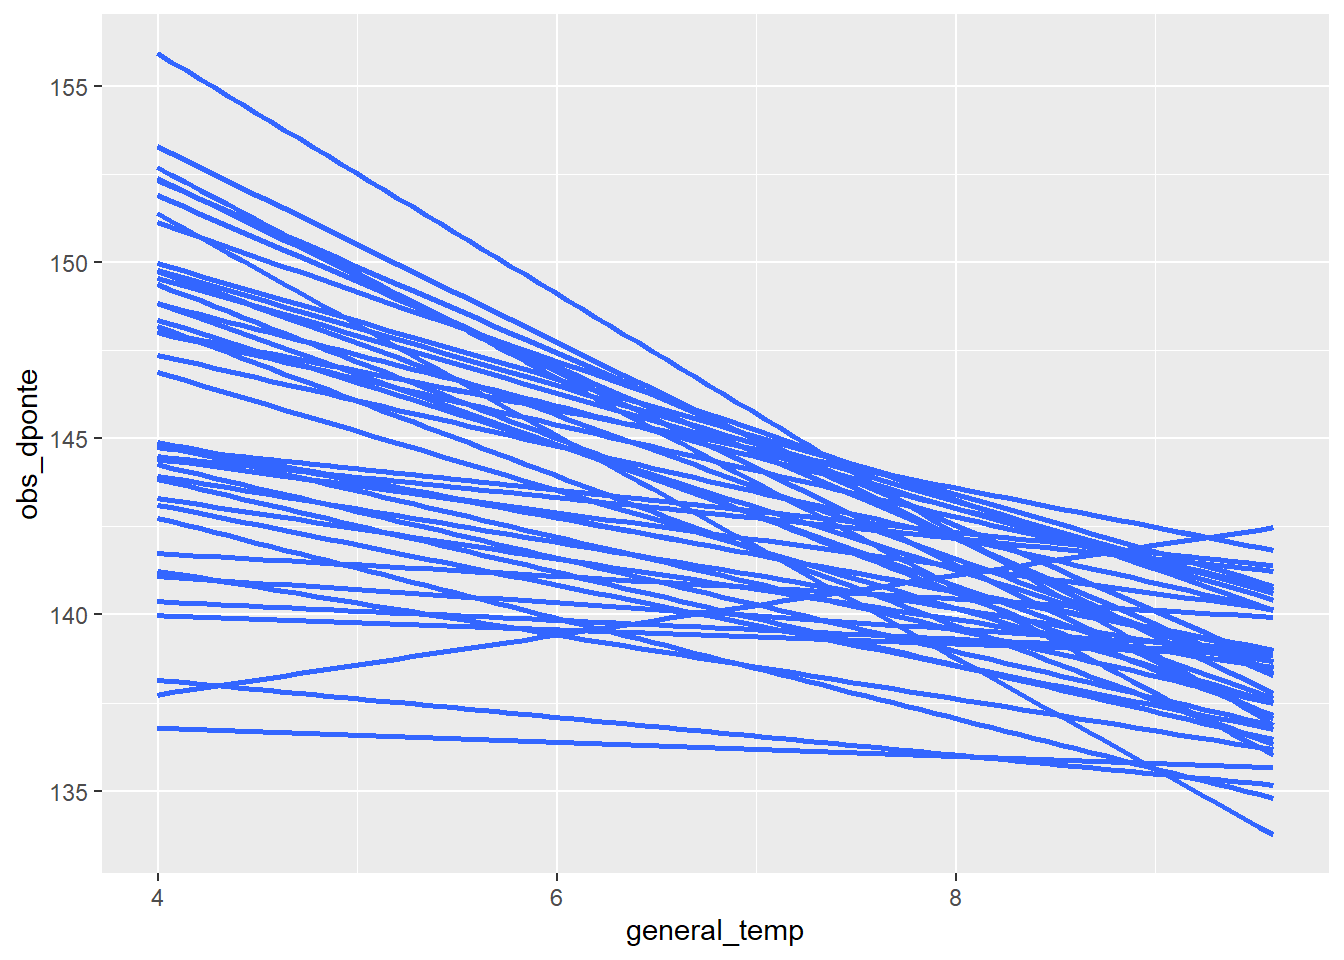
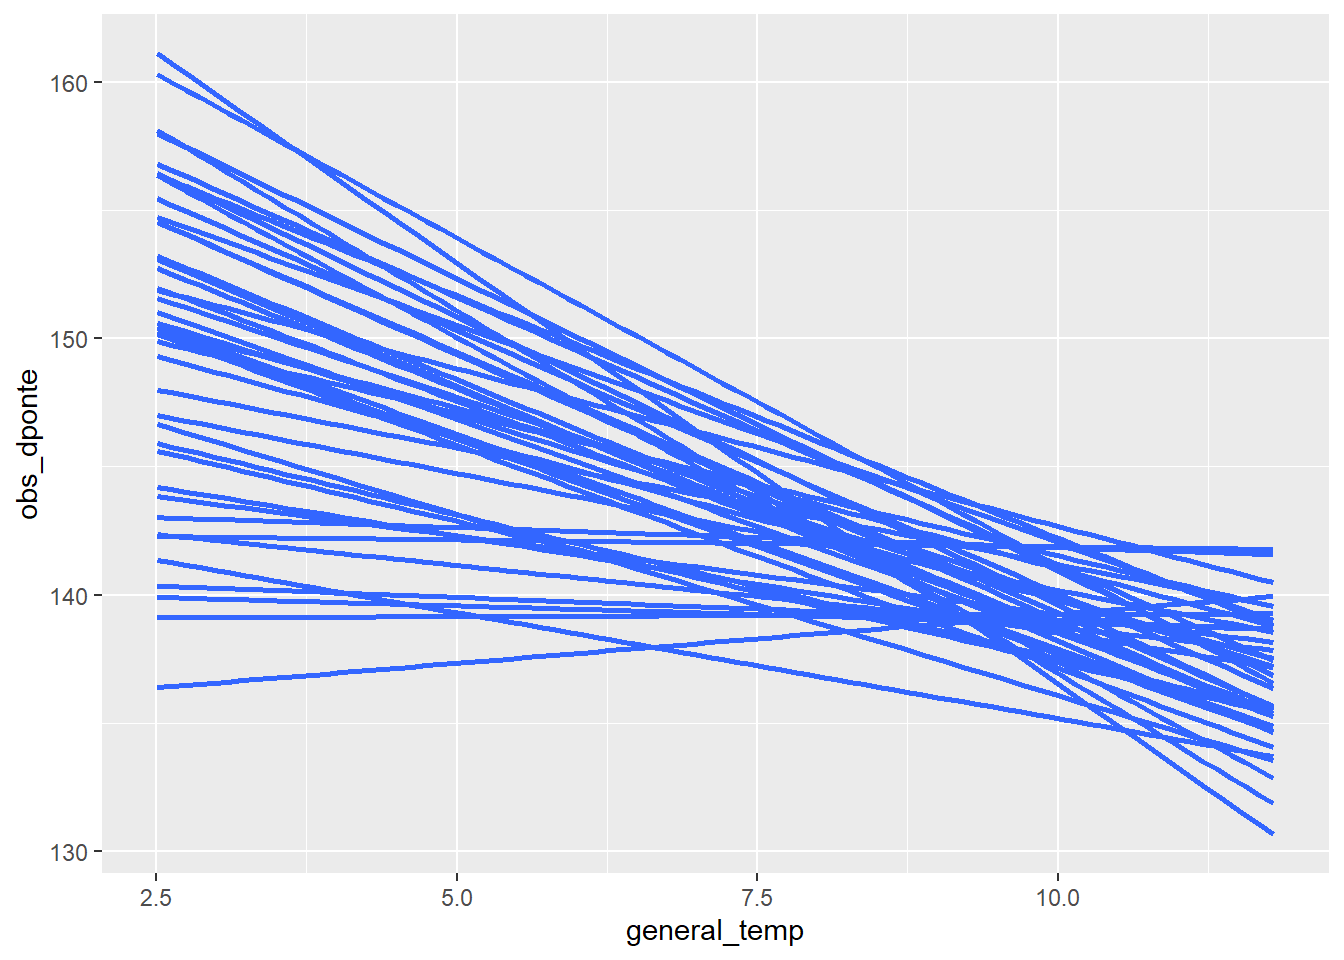
update site

diff --git a/docs/posts/2022-11-23-evolution-of-plasticity/index.html b/docs/posts/2022-11-23-evolution-of-plasticity/index.html
@@ -186,6 +186,7 @@ code span.wa { color: #60a0b0; font-weight: bold; font-style: italic; } /* Warni
                 <div class="quarto-category">UdeS</div>
                 <div class="quarto-category">stan</div>
                 <div class="quarto-category">brms</div>
+                <div class="quarto-category">simulation</div>
               </div>
                   </div>
   </div>
@@ -219,7 +220,8 @@ code span.wa { color: #60a0b0; font-weight: bold; font-style: italic; } /* Warni
     <h2 id="toc-title">On this page</h2>
    
   <ul>
-  <li><a href="#data-simulation" id="toc-data-simulation" class="nav-link active" data-scroll-target="#data-simulation">Data simulation</a></li>
+  <li><a href="#study-question" id="toc-study-question" class="nav-link active" data-scroll-target="#study-question">Study question</a></li>
+  <li><a href="#data-simulation" id="toc-data-simulation" class="nav-link" data-scroll-target="#data-simulation">Data simulation</a></li>
   <li><a href="#fecundity" id="toc-fecundity" class="nav-link" data-scroll-target="#fecundity">fecundity</a></li>
   <li><a href="#date-of-laying" id="toc-date-of-laying" class="nav-link" data-scroll-target="#date-of-laying">Date of laying</a></li>
   <li><a href="#combine-the-two" id="toc-combine-the-two" class="nav-link" data-scroll-target="#combine-the-two">combine the two</a></li>
@@ -242,6 +244,10 @@ code span.wa { color: #60a0b0; font-weight: bold; font-style: italic; } /* Warni
 <span id="cb1-3"><a href="#cb1-3" aria-hidden="true" tabindex="-1"></a><span class="fu">library</span>(tidyverse)</span>
 <span id="cb1-4"><a href="#cb1-4" aria-hidden="true" tabindex="-1"></a><span class="fu">library</span>(tidybayes)</span></code><button title="Copy to Clipboard" class="code-copy-button"><i class="bi"></i></button></pre></div>
 </div>
+<section id="study-question" class="level2">
+<h2 class="anchored" data-anchor-id="study-question">Study question</h2>
+<p>Phenotypic plasiticity is the</p>
+</section>
 <section id="data-simulation" class="level2">
 <h2 class="anchored" data-anchor-id="data-simulation">Data simulation</h2>
 <p>RARE to have more than two years per female</p>
@@ -281,11 +287,11 @@ code span.wa { color: #60a0b0; font-weight: bold; font-style: italic; } /* Warni
 <pre><code># A tibble: 5 x 5
    year general_temp general_temp_c expected_clutch observed_clutch
   &lt;int&gt;        &lt;dbl&gt;          &lt;dbl&gt;           &lt;dbl&gt;           &lt;int&gt;
-1     1         4.33         -0.514            1.56               4
-2     2         2.85         -2.00             1.41               2
-3     3         5.13          0.289            1.64               4
-4     4         7.99          3.14             1.92               9
-5     5         3.92         -0.922            1.52               2</code></pre>
+1     1        11.6            4.72            2.08               5
+2     2         3.00          -3.92            1.22               4
+3     3         8.10           1.19            1.73               9
+4     4         3.05          -3.86            1.22               5
+5     5         8.78           1.87            1.80              10</code></pre>
 </div>
 </div>
 <p>Make a simple model to measure</p>
@@ -298,20 +304,20 @@ glm(formula = observed_clutch ~ general_temp_c, data = one_bird)
 
 Deviance Residuals: 
       1        2        3        4        5  
- 0.5359   0.6560  -0.6133   0.3023  -0.8809  
+-3.0812  -1.3699   2.0256  -0.3882   2.8136  
 
 Coefficients:
-               Estimate Std. Error t value Pr(&gt;|t|)   
-(Intercept)      4.2000     0.3616  11.616  0.00137 **
-general_temp_c   1.4305     0.2083   6.869  0.00632 **
+               Estimate Std. Error t value Pr(&gt;|t|)  
+(Intercept)      6.6000     1.2527   5.268   0.0133 *
+general_temp_c   0.3141     0.3698   0.849   0.4581  
 ---
 Signif. codes:  0 '***' 0.001 '**' 0.01 '*' 0.05 '.' 0.1 ' ' 1
 
-(Dispersion parameter for gaussian family taken to be 0.653676)
+(Dispersion parameter for gaussian family taken to be 7.846815)
 
-    Null deviance: 32.800  on 4  degrees of freedom
-Residual deviance:  1.961  on 3  degrees of freedom
-AIC: 15.51
+    Null deviance: 29.20  on 4  degrees of freedom
+Residual deviance: 23.54  on 3  degrees of freedom
+AIC: 27.936
 
 Number of Fisher Scoring iterations: 2</code></pre>
 </div>
@@ -356,18 +362,18 @@ lm(formula = observed_dponte ~ general_temp_c, data = one_bird_dponte)
 
 Residuals:
      1      2      3      4      5 
--1.152 -5.774  2.896 -2.273  6.302 
+ 3.527 -1.502 -3.282  3.660 -2.403 
 
 Coefficients:
                Estimate Std. Error t value Pr(&gt;|t|)    
-(Intercept)     141.200      2.421   58.32 1.11e-05 ***
-general_temp_c   -3.794      1.395   -2.72   0.0725 .  
+(Intercept)    136.6000     1.7251  79.185 4.44e-06 ***
+general_temp_c  -2.7834     0.5092  -5.466    0.012 *  
 ---
 Signif. codes:  0 '***' 0.001 '**' 0.01 '*' 0.05 '.' 0.1 ' ' 1
 
-Residual standard error: 5.414 on 3 degrees of freedom
-Multiple R-squared:  0.7115,    Adjusted R-squared:  0.6154 
-F-statistic: 7.399 on 1 and 3 DF,  p-value: 0.07254</code></pre>
+Residual standard error: 3.857 on 3 degrees of freedom
+Multiple R-squared:  0.9088,    Adjusted R-squared:  0.8783 
+F-statistic: 29.88 on 1 and 3 DF,  p-value: 0.01204</code></pre>
 </div>
 </div>
 </section>
@@ -525,17 +531,17 @@ Attaching package: 'brms'</code></pre>
 Columns: 13
 $ year                   &lt;int&gt; 1, 1, 1, 1, 1, 1, 1, 1, 1, 1, 1, 1, 1, 1, 1, 1,~
 $ idF1                   &lt;int&gt; 1, 2, 3, 4, 5, 6, 7, 8, 9, 10, 11, 12, 13, 14, ~
-$ mom_quality            &lt;dbl&gt; 1.9589649, 3.4778713, 2.6337648, 2.0703548, 0.9~
-$ general_temp           &lt;dbl&gt; 3.997818, 3.997818, 3.997818, 3.997818, 3.99781~
-$ general_temp_c         &lt;dbl&gt; -2.915319, -2.915319, -2.915319, -2.915319, -2.~
-$ effet_temp_dponte_qual &lt;dbl&gt; -1.3712754, -2.4345099, -1.8436353, -1.4492484,~
-$ effet_temp_csize_qual  &lt;dbl&gt; 0.067241622, 0.124642041, 0.096841429, 0.072772~
-$ mom_avg_csize          &lt;dbl&gt; 1.520778, 1.635578, 1.579977, 1.531838, 1.37224~
-$ temp_avg_csize         &lt;dbl&gt; 3.761233, 3.568721, 3.660697, 3.742242, 4.02580~
-$ mom_avg_dponte         &lt;dbl&gt; 141.9179, 144.9557, 143.2675, 142.1407, 139.864~
-$ temp_avg_dponte        &lt;dbl&gt; 145.9156, 152.0531, 148.6423, 146.3657, 141.766~
-$ obs_csize              &lt;int&gt; 3, 6, 4, 7, 1, 0, 2, 2, 2, 1, 4, 3, 4, 4, 3, 4,~
-$ obs_dponte             &lt;dbl&gt; 146, 148, 153, 149, 142, 143, 137, 144, 149, 15~</code></pre>
+$ mom_quality            &lt;dbl&gt; 0.2340745, 2.8196834, 3.4440948, 3.1010931, 3.7~
+$ general_temp           &lt;dbl&gt; 11.79175, 11.79175, 11.79175, 11.79175, 11.7917~
+$ general_temp_c         &lt;dbl&gt; 4.00622, 4.00622, 4.00622, 4.00622, 4.00622, 4.~
+$ effet_temp_dponte_qual &lt;dbl&gt; -0.16385216, -1.97377840, -2.41086634, -2.17076~
+$ effet_temp_csize_qual  &lt;dbl&gt; -0.14521158, 0.10366246, 0.12366611, 0.11317546~
+$ mom_avg_csize          &lt;dbl&gt; 1.0958712, 1.5936193, 1.6336266, 1.6126453, 1.6~
+$ temp_avg_csize         &lt;dbl&gt; 1.6721691, 7.4552160, 8.4069626, 7.8935906, 8.9~
+$ mom_avg_dponte         &lt;dbl&gt; 138.4681, 143.6394, 144.8882, 144.2022, 145.585~
+$ temp_avg_dponte        &lt;dbl&gt; 137.8117, 135.7320, 135.2297, 135.5056, 134.949~
+$ obs_csize              &lt;int&gt; 2, 12, 3, 5, 5, 4, 2, 10, 1, 6, 4, 2, 5, 3, 8, ~
+$ obs_dponte             &lt;dbl&gt; 128, 134, 131, 139, 138, 131, 134, 137, 139, 13~</code></pre>
 </div>
 <div class="sourceCode cell-code" id="cb32"><pre class="sourceCode r code-with-copy"><code class="sourceCode r"><span id="cb32-1"><a href="#cb32-1" aria-hidden="true" tabindex="-1"></a><span class="do">## define formulae</span></span>
 <span id="cb32-2"><a href="#cb32-2" aria-hidden="true" tabindex="-1"></a>csize_model_bf <span class="ot">&lt;-</span> <span class="fu">bf</span>(obs_csize <span class="sc">~</span> <span class="dv">1</span> <span class="sc">+</span> general_temp_c <span class="sc">+</span> (<span class="dv">1</span> <span class="sc">+</span> general_temp_c<span class="sc">|</span>f<span class="sc">|</span>idF1),</span>
@@ -568,6 +574,7 @@ $ obs_dponte             &lt;dbl&gt; 146, 148, 153, 149, 142, 143, 137, 144, 149
 <h2 class="anchored" data-anchor-id="notes">notes</h2>
 <p>very small sample sizes per female – experiment with this (2 years or more)</p>
 <p>The data are 0-truncated: only nesting females are measured!</p>
+<p>I think it is particularly interesting that the data are already conditioned on reproduction. that is, females who fail to reproduce at all don’t get included in the dataset. What effects could this have on our ability to detect interactions?</p>
 
 
 </section>

diff --git a/docs/blog.html b/docs/blog.html
@@ -143,7 +143,7 @@ ul.task-list li input[type="checkbox"] {
 <!-- margin-sidebar -->
     <div id="quarto-margin-sidebar" class="sidebar margin-sidebar">
         
-    <h5 class="quarto-listing-category-title">Categories</h5><div class="quarto-listing-category category-default"><div class="category" data-category="">All <span class="quarto-category-count">(9)</span></div><div class="category" data-category="R">R <span class="quarto-category-count">(2)</span></div><div class="category" data-category="UdeS">UdeS <span class="quarto-category-count">(4)</span></div><div class="category" data-category="books">books <span class="quarto-category-count">(1)</span></div><div class="category" data-category="brms">brms <span class="quarto-category-count">(1)</span></div><div class="category" data-category="simulation">simulation <span class="quarto-category-count">(1)</span></div><div class="category" data-category="stan">stan <span class="quarto-category-count">(5)</span></div><div class="category" data-category="statistics">statistics <span class="quarto-category-count">(1)</span></div><div class="category" data-category="twitter">twitter <span class="quarto-category-count">(1)</span></div></div></div>
+    <h5 class="quarto-listing-category-title">Categories</h5><div class="quarto-listing-category category-default"><div class="category" data-category="">All <span class="quarto-category-count">(9)</span></div><div class="category" data-category="R">R <span class="quarto-category-count">(2)</span></div><div class="category" data-category="UdeS">UdeS <span class="quarto-category-count">(4)</span></div><div class="category" data-category="books">books <span class="quarto-category-count">(1)</span></div><div class="category" data-category="brms">brms <span class="quarto-category-count">(1)</span></div><div class="category" data-category="simulation">simulation <span class="quarto-category-count">(2)</span></div><div class="category" data-category="stan">stan <span class="quarto-category-count">(5)</span></div><div class="category" data-category="statistics">statistics <span class="quarto-category-count">(1)</span></div><div class="category" data-category="twitter">twitter <span class="quarto-category-count">(1)</span></div></div></div>
 <!-- main -->
 <main class="content column-page-left" id="quarto-document-content">
 
@@ -195,7 +195,7 @@ ul.task-list li input[type="checkbox"] {
     </div>
 </div>
 <div class="list quarto-listing-default">
-<div class="quarto-post image-right" data-index="0" data-categories="UdeS,stan,brms" data-listing-date-sort="1669179600000" data-listing-file-modified-sort="1669234366394" data-listing-reading-time-sort="4.63">
+<div class="quarto-post image-right" data-index="0" data-categories="UdeS,stan,brms,simulation" data-listing-date-sort="1669179600000" data-listing-file-modified-sort="1669293365885" data-listing-reading-time-sort="4.86">
 <div class="thumbnail">
 <a href="./posts/2022-11-23-evolution-of-plasticity/index.html">
 <div class="thumbnail-image">
@@ -221,6 +221,9 @@ stan
 </div>
 <div class="listing-category" onclick="window.quartoListingCategory('brms'); return false;">
 brms
+</div>
+<div class="listing-category" onclick="window.quartoListingCategory('simulation'); return false;">
+simulation
 </div>
 </div>
 <a href="./posts/2022-11-23-evolution-of-plasticity/index.html">
